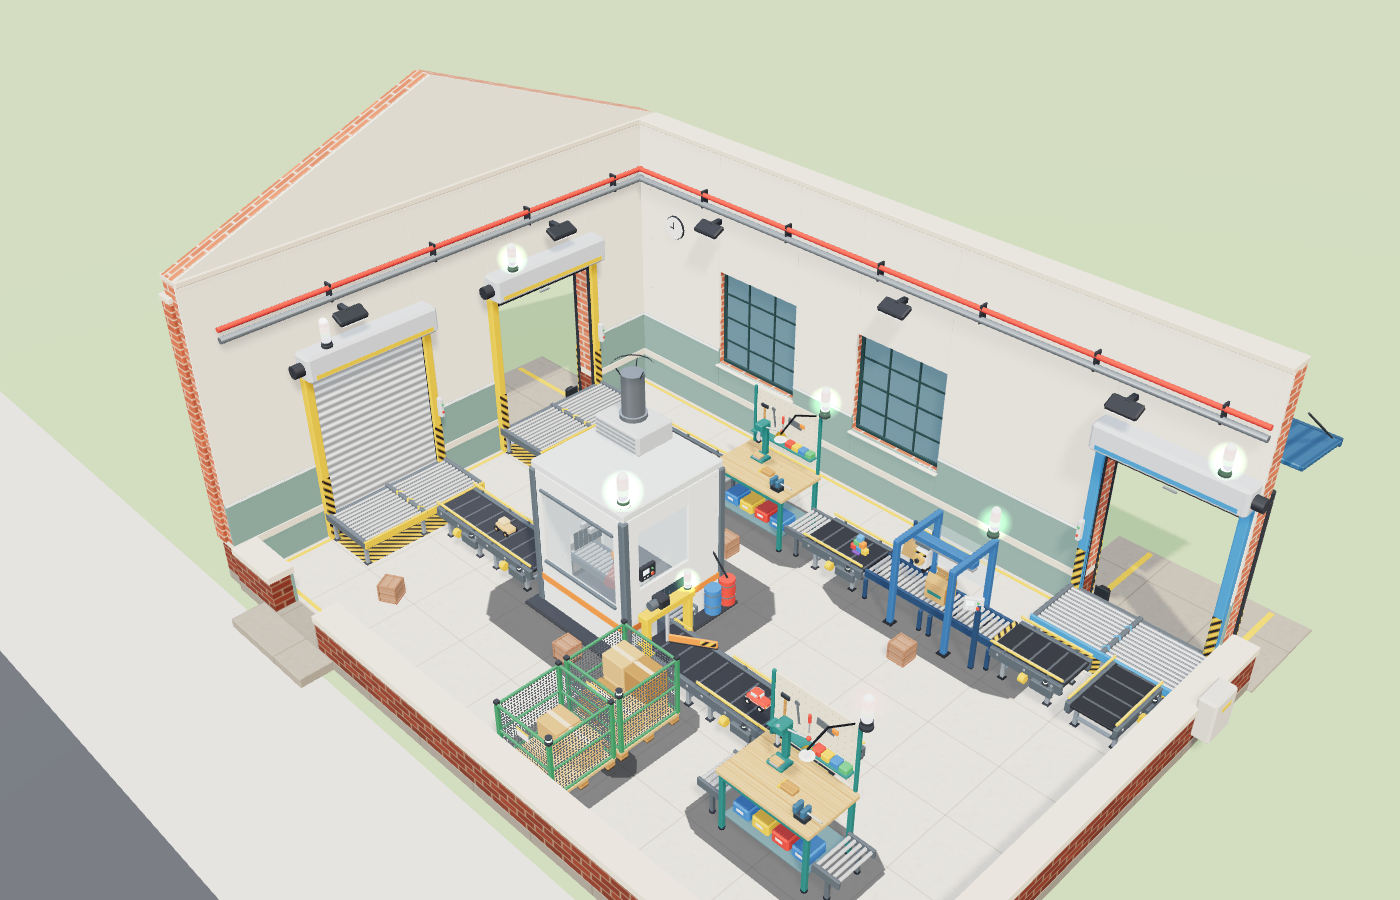
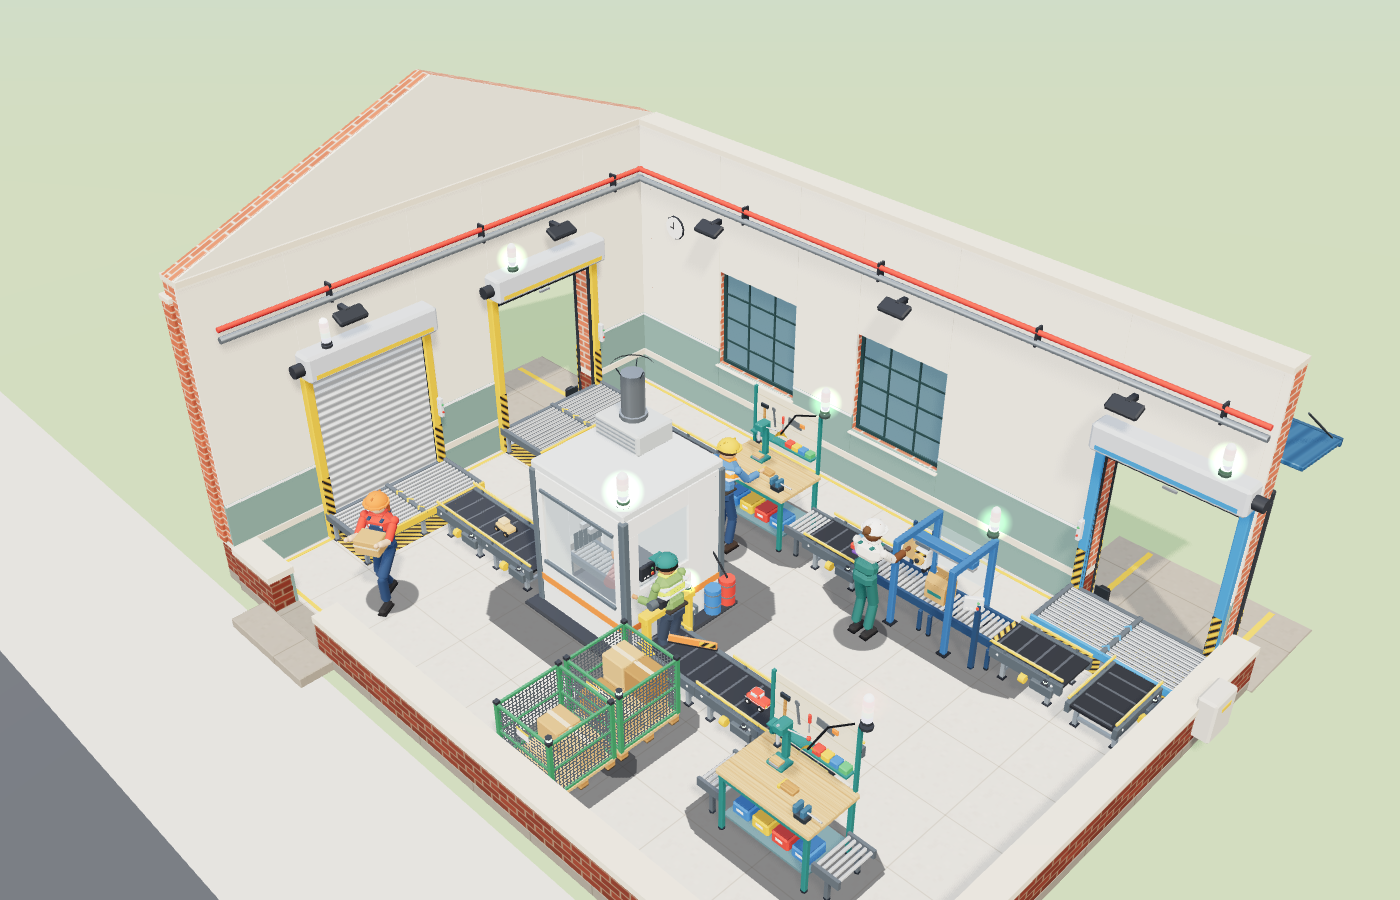
Content catalog complete (377 items, 346 recipes, 50 factories, 10 businesses); declarative tier unlocks
- Machine tier gates move from hard-coded command logic into data (tierUnlocks); validator now 0 errors / 0 warnings
- Full EN/HE content tables (1,588 keys), factory matrix and dependency graph generated

Claude-Session: https://claude.ai/code/session_01QUCVJJ8vSf1g5xenrdUj19

diff --git a/src/content/data/ch1_workshop.ts b/src/content/data/ch1_workshop.ts
@@ -53,7 +53,7 @@ export const ch1: ContentPack = {
   machines: [
     { id: 'receiving_dock', footprint: [1, 2], cost: 0, powerKw: 0.5, staff: 0, maintenancePerMin: 0, inputCrafts: 0, outputCap: 0, speedPct: [100], upgradeCost: [0], anim: 'dock', model: 'mach_receiving_dock', buildings: [W], role: 'receiving', fixed: true },
     { id: 'shipping_dock', footprint: [1, 2], cost: 0, powerKw: 0.5, staff: 0, maintenancePerMin: 0, inputCrafts: 0, outputCap: 0, speedPct: [100], upgradeCost: [0], anim: 'dock', model: 'mach_shipping_dock', buildings: [W], role: 'shipping', fixed: true },
-    { id: 'belt', footprint: [1, 1], cost: 500, powerKw: 0.05, staff: 0, maintenancePerMin: 0, inputCrafts: 0, outputCap: 0, speedPct: [100, 200], upgradeCost: [0, 700], anim: 'splitter', model: 'mach_belt', buildings: [W], role: 'belt' },
+    { id: 'belt', footprint: [1, 1], cost: 500, powerKw: 0.05, staff: 0, maintenancePerMin: 0, inputCrafts: 0, outputCap: 0, speedPct: [100, 200], upgradeCost: [0, 700], tierUnlocks: [undefined, 'ch1_belt_mk2'], anim: 'splitter', model: 'mach_belt', buildings: [W], role: 'belt' },
     { id: 'assembly_bench', footprint: [2, 1], cost: 18000, powerKw: 0.5, staff: 1, maintenancePerMin: 2, inputCrafts: 2, outputCap: 4, speedPct: [100, 140, 180], upgradeCost: [0, 25000, 60000], anim: 'bench', model: 'mach_assembly_bench', buildings: [W] },
     { id: 'packing_station', footprint: [2, 1], cost: 15000, powerKw: 1, staff: 1, maintenancePerMin: 3, inputCrafts: 2, outputCap: 4, speedPct: [100, 150, 200], upgradeCost: [0, 22000, 55000], anim: 'packer', model: 'mach_packing_station', buildings: [W] },
     { id: 'paint_booth', footprint: [2, 2], cost: 26000, powerKw: 3, staff: 1, maintenancePerMin: 5, inputCrafts: 2, outputCap: 4, speedPct: [100, 150, 200], upgradeCost: [0, 40000, 90000], anim: 'booth', model: 'mach_paint_booth', buildings: [W], unlock: 'ch1_toy_car' },

diff --git a/src/ui/panels.ts b/src/ui/panels.ts
@@ -219,11 +219,12 @@ function entityActions(ctx: UiCtx, f: FactoryState, e: Entity, def: MachineDef) 
   const s = ctx.sim.s;
   const next = e.tier + 1;
   const canUp = next < def.speedPct.length;
-  const beltLocked = def.role === 'belt' && !s.unlocked.includes('ch1_belt_mk2');
+  const gate = def.tierUnlocks?.[next];
+  const beltLocked = !!gate && !s.unlocked.includes(gate);
   return h(
     'div',
     { class: 'section chips' },
-    canUp ? btn(`${t('panel.upgrade', { n: next + 1 })} · ${money(def.upgradeCost[next] ?? 0)}`, () => ctx.run({ t: 'upgradeMachine', f: f.id, e: e.id }, 'upgrade_complete'), { cls: 'small', disabled: beltLocked, title: beltLocked ? t('err.locked', { what: 'unlock.ch1_belt_mk2' }) : `${t('panel.upgrade_speed', { pct: (def.speedPct[next] ?? 100) - (def.speedPct[e.tier] ?? 100) })}` }) : null,
+    canUp ? btn(`${t('panel.upgrade', { n: next + 1 })} · ${money(def.upgradeCost[next] ?? 0)}`, () => ctx.run({ t: 'upgradeMachine', f: f.id, e: e.id }, 'upgrade_complete'), { cls: 'small', disabled: beltLocked, title: beltLocked ? t('err.locked', { what: `unlock.${gate}` }) : `${t('panel.upgrade_speed', { pct: (def.speedPct[next] ?? 100) - (def.speedPct[e.tier] ?? 100) })}` }) : null,
     btn(t('panel.rotate'), () => ctx.run({ t: 'rotate', f: f.id, e: e.id }, 'build_rotate'), { cls: 'small' }),
     e.kind === 'machine' ? btn(t('panel.move'), () => ctx.startMove(f.id, e.id), { cls: 'small' }) : null,
     btn(t('panel.remove_refund', { v: money(refundFor(s, e, ctx.db)) }), () => {

diff --git a/src/content/data/ch7_hightech.ts b/src/content/data/ch7_hightech.ts
@@ -22,7 +22,7 @@ const sites = collect([
   }),
   site({
     id: LED, kind: 'factory', index: 48, chapter: 7, plot: [24, 18], unlock: 'ch7_led',
-    machines: ['mocvd_reactor', 'led_binner', 'luminaire_line'], mechanics: ['spec_variants', 'quality_sorting'],
+    machines: ['mocvd_reactor', 'led_binner', 'luminaire_line'], mechanics: ['efficiency_grading', 'spec_variants', 'quality_sorting'],
     identity: 'LED dies are binned by efficiency and brightness; high bins become panel lights and streetlights with strict illumination specs, low bins become household bulbs.',
     interior: [12, 8], cost: 900000, kw: 60, staff: 4, dock: 100, bay: 'bay_clean',
     visual: ['Clean hall with a glowing reactor window.', 'Binning lab and luminaire assembly line.', 'Facade of colour-changing light panels.'],

diff --git a/src/sim/commands.ts b/src/sim/commands.ts
@@ -228,7 +228,8 @@ export function execCommand(s: GameState, db: ContentDB, c: Command, ev: EventBu
       const m = db.machines.get(e.def)!;
       const next = e.tier + 1;
       if (next >= m.speedPct.length) return fail('err.max_tier');
-      if (m.role === 'belt' && !s.unlocked.includes('ch1_belt_mk2')) return fail('err.locked', { what: 'unlock.ch1_belt_mk2' });
+      const gate = m.tierUnlocks?.[next];
+      if (gate && !s.unlocked.includes(gate)) return fail('err.locked', { what: `unlock.${gate}` });
       const cost = m.upgradeCost[next] ?? 0;
       if (!trySpend(s, 'construction', cost)) return fail('err.no_cash', { cost });
       e.tier = next;

diff --git a/src/content/validate.ts b/src/content/validate.ts
@@ -383,7 +383,10 @@ function checkUnlocks(ctx: Ctx): void {
   const used = new Set<string>();
   for (const u of ctx.unlocks.values()) u.requires.forEach((r) => used.add(r));
   for (const r of ctx.recipes.values()) if (r.unlock) used.add(r.unlock);
-  for (const m of ctx.machines.values()) if (m.unlock) used.add(m.unlock);
+  for (const m of ctx.machines.values()) {
+    if (m.unlock) used.add(m.unlock);
+    for (const u of m.tierUnlocks ?? []) if (u) used.add(u);
+  }
   for (const s of ctx.sources.values()) if (s.unlock) used.add(s.unlock);
   for (const b of ctx.buildings.values()) {
     if (b.unlock) used.add(b.unlock);

diff --git a/src/content/types.ts b/src/content/types.ts
@@ -129,6 +129,8 @@ export interface MachineDef {
   speedPct: number[];
   /** Upgrade cost in cents to reach tier index i (index 0 unused). */
   upgradeCost: number[];
+  /** Optional unlock required to reach tier index i (index 0 unused). */
+  tierUnlocks?: (UnlockId | undefined)[];
   anim: MachineAnim;
   /** Render model id. */
   model: string;

diff --git a/docs/factory-matrix.md b/docs/factory-matrix.md
@@ -57,7 +57,7 @@ Status columns come from `status.json` and are maintained by the integration own
 | 45 | `ev_factory` | Electric Vehicle Factory | 7 | 3 | Body press line, Body welding line, Paint shop, Chassis line, Final assembly line | 6 | multi_line, synchronization | Steel sheet ← Steelworks; Steel beam ← Steelworks; Aluminum profile ← Aluminum Plant; Paint can ← Paint & Coatings Plant / import; Powder coating ← Paint & Coatings Plant; EV battery module ← Battery Factory; Traction motor ← Electric Motor Factory; Car tire ← Tire & Rubber Factory; Controller board ← Circuit Board Factory; Glass pane ← Glassworks; Display panel ← import; Upholstery fabric ← Textile Mill; Power cable ← Wire & Cable Factory | yes | none | no | none | none | no |
 | 46 | `forklift_factory` | Forklift Factory | 7 | 3 | Mast welder, Counterweight caster, Forklift line, Load-test rig | 6 | load_test, spec_variants | Steel beam ← Steelworks; Steel wire ← Steelworks; Steel scrap ← Recycling Center / Steelworks / Precision Parts Factory / Electric Vehicle Factory; Industrial motor ← Electric Motor Factory; Battery pack ← Battery Factory; Solid tire ← Tire & Rubber Factory; Controller board ← Circuit Board Factory; Sensor chip ← Semiconductor Plant / import | yes | none | no | none | none | no |
 | 47 | `solar_factory` | Solar Panel Factory | 7 | 3 | Diffusion furnace, Cell grader, Stringer, Module laminator | 6 | efficiency_grading, assembly_balance | Solar wafer ← import; Copper wire ← Wire & Cable Factory; Cover glass ← Glassworks; Plastic film ← Plastics Factory / import; Aluminum profile ← Aluminum Plant | yes | none | no | none | none | no |
-| 48 | `led_factory` | LED Lighting Factory | 7 | 3 | MOCVD reactor, LED binner, Luminaire line | 5 | spec_variants, quality_sorting | Solar wafer ← import; Specialty gas ← import; Bare circuit board ← Circuit Board Factory; Plastic parts ← Plastics Factory / import; Flat carton ← Packaging Factory / import; Aluminum profile ← Aluminum Plant; Power chip ← Semiconductor Plant / import; Cover glass ← Glassworks | yes | none | no | none | none | no |
+| 48 | `led_factory` | LED Lighting Factory | 7 | 3 | MOCVD reactor, LED binner, Luminaire line | 5 | efficiency_grading, spec_variants, quality_sorting | Solar wafer ← import; Specialty gas ← import; Bare circuit board ← Circuit Board Factory; Plastic parts ← Plastics Factory / import; Flat carton ← Packaging Factory / import; Aluminum profile ← Aluminum Plant; Power chip ← Semiconductor Plant / import; Cover glass ← Glassworks | yes | none | no | none | none | no |
 | 49 | `medical_factory` | Medical Device Factory | 7 | 3 | Clean assembly bench, QA lab | 5 | traceability, inspection | Mainboard ← Circuit Board Factory; Display panel ← import; Sensor chip ← Semiconductor Plant / import; Plastic housing ← Plastics Factory; Data cable ← Wire & Cable Factory; Plastic parts ← Plastics Factory / import; Steel sheet ← Steelworks; Power cable ← Wire & Cable Factory; Shipping box ← Packaging Factory; Wood pallet ← Packaging Factory | yes | none | no | none | none | no |
 | 50 | `modular_factory` | Modular Building Factory | 7 | 3 | Framing table, Module jig, Fit-out station | 5 | large_orders, site_coordination | Glulam beam ← Engineered Wood Plant; Plywood ← Engineered Wood Plant; Glass pane ← Glassworks; Wall paint ← Paint & Coatings Plant; Steel beam ← Steelworks; Particleboard ← Engineered Wood Plant; Ceramic tile ← Brick & Tile Works; Power cable ← Wire & Cable Factory; Plastic parts ← Plastics Factory / import; LED panel light ← LED Lighting Factory | yes | none | no | none | none | no |
 
